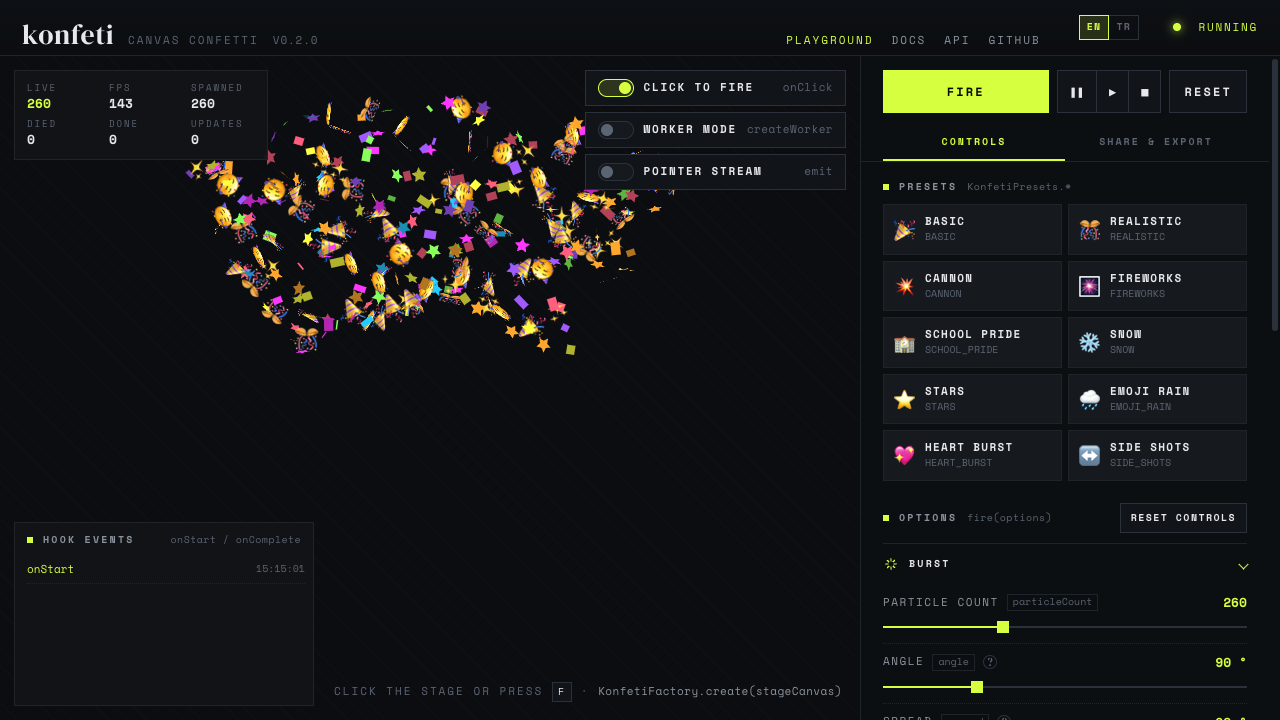
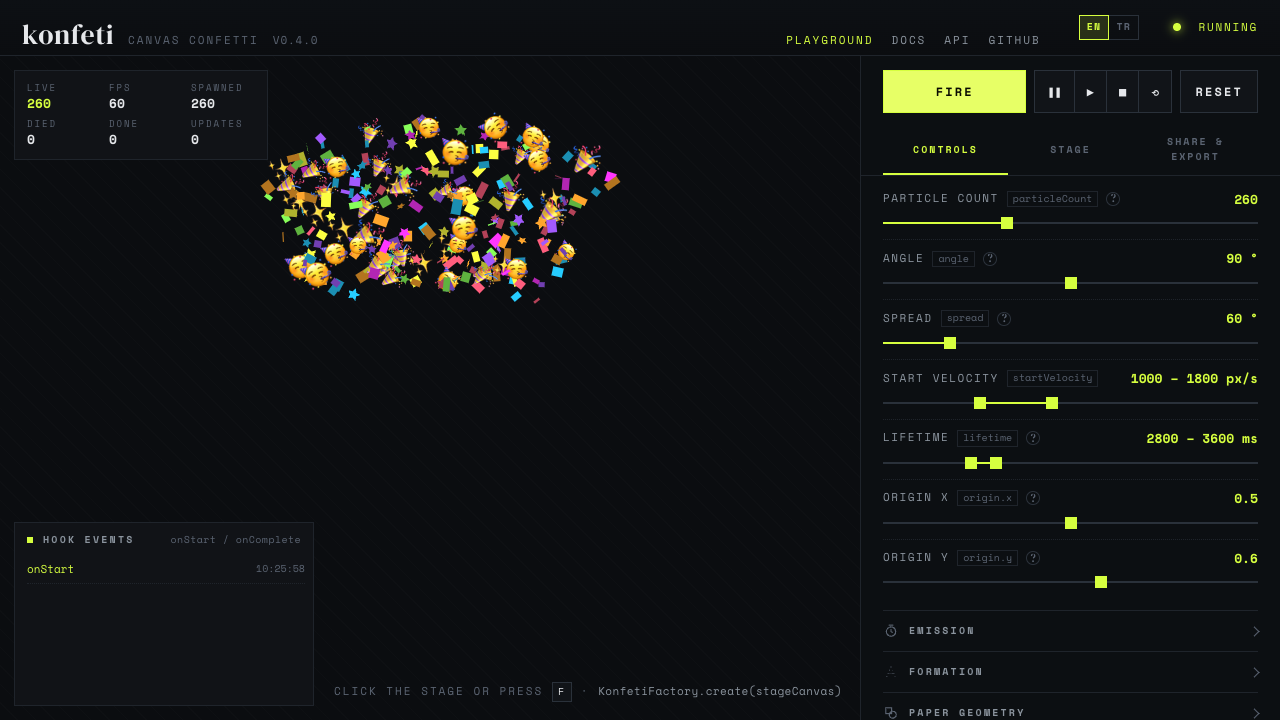
Fix the phone header; record the benchmarks in the plan
- Phone header (site): the wordmark kept shrinking and ran under the
  links, and the Turkish "DENEME ALANI" wrapped over it. The wordmark
  now keeps its width, the links stay on one line, spacing is tighter
  below 720 px, the status shows its dot only, and the narrowest phones
  (380 px and below) get a smaller wordmark. Measured on the built site:
  no overlap and no clipped link at 360, 375 and 390 px, EN and TR,
  playground and docs.
- docs/PLAN.md: M6 done; M7 benchmarks recorded (1k/5k/10k: paper, star
  and emoji hold 60 fps at 10k, shadows are the one real cost); SoA pool
  not needed; SSR-safe import checked; current bundle sizes.
- README screenshot: the 0.4.0 playground with the new editor.

diff --git a/playground/src/brand.css b/playground/src/brand.css
@@ -352,6 +352,7 @@ kbd {
 
 @media (max-width: 720px) {
   .app-header {
+    gap: 10px;
     padding: 10px 12px;
   }
 
@@ -364,14 +365,29 @@ kbd {
     display: none;
   }
 
+  /* the wordmark keeps its width (it used to shrink and run under the links) */
+  .app-brand {
+    flex-shrink: 0;
+  }
+
+  /* one line of links; on the narrowest phones they scroll sideways instead of overlapping */
   .app-nav {
-    gap: 10px;
-    margin-right: 10px;
+    gap: 8px;
+    min-width: 0;
+    margin-right: 0;
+    overflow-x: auto;
+    scrollbar-width: none;
   }
 
   .app-nav a {
     font-size: 10px;
-    letter-spacing: 0.1em;
+    letter-spacing: 0.04em;
+    white-space: nowrap;
+  }
+
+  /* the colored dot alone tells the state */
+  .app-status > :not(.dot) {
+    display: none;
   }
 
   .app-nav .app-nav-extra {
@@ -379,10 +395,25 @@ kbd {
   }
 
   .lang-switch {
-    margin-right: 8px;
+    margin-right: 0;
   }
 
   .lang-option {
     padding: 3px 5px;
+  }
+}
+
+/* the narrowest phones (360 px wide): a smaller wordmark keeps every link visible */
+@media (max-width: 380px) {
+  .app-brand h1 {
+    font-size: 19px;
+  }
+
+  .app-nav {
+    gap: 6px;
+  }
+
+  .lang-option {
+    padding: 3px 4px;
   }
 }

diff --git a/docs/PLAN.md b/docs/PLAN.md
@@ -132,8 +132,10 @@ Notes
 ### 3.8 Advanced (post-MVP)
 
 - `OffscreenCanvas` + Web Worker renderer (`createWorker()` from `konfeti/worker`, shipped in 0.2.0)
-- SSR-safe import (no `window` access at import time)
-- Playground: live option editor + "copy config" button
+- ✅ SSR-safe import (no `window` access at import time): the built CJS and ESM entries, `konfeti/worker` included,
+  import in Node without a DOM (checked 2026-10-05)
+- ✅ Playground: live option editor + "copy config" button (editor v2: Basic/Advanced, min–max ranges, per-shape
+  styles, burst tabs, lossless preset loading)
 
 ---
 
@@ -225,15 +227,35 @@ fire(options)
 | M3 ✅ | Physics + visual  | composable physics, flip/wobble/tilt, opacity/scale curves, colour utilities                                                                                                     |
 | M4 ✅ | Presets + helpers | `KonfetiPresets` + `extendPreset`, `fromElement`, `onClick`, emission modes (stream/interval), hooks                                                                             |
 | M5 ✅ | Advanced          | ✅ `defineShape` / `definePhysics` (typed registries) · ✅ tree-shakeable shape handlers + `konfeti/lite` · ✅ Worker/OffscreenCanvas (`konfeti/worker` → `createWorker`, 0.2.0) |
-| M6    | Docs & playground | playground with live option editor, TypeDoc site, README examples · ✅ package README                                                                                            |
-| M7    | 1.0               | API freeze, benchmarks (1k/5k/10k particles), visual regression tests, release                                                                                                   |
+| M6 ✅ | Docs & playground | playground with live option editor (v2, 0.4.0), TypeDoc site, README examples, package README                                                                                    |
+| M7    | 1.0               | API freeze, ✅ benchmarks (1k/5k/10k particles, §6.1), visual regression tests, release                                                                                          |
+
+### 6.1 Benchmarks (2026-10-05)
+
+Built dist in Chrome, 1280×800 at DPR 2, particles spread over the canvas and kept alive. "Engine JS" is one
+`update` + `draw` stepped by hand (no readbacks); "fps" is the real frame rate under the normal 60 Hz cap.
+
+| Variant        | 1k             | 5k             | 10k             |
+| -------------- | -------------- | -------------- | --------------- |
+| paper          | 0.3 ms, 60 fps | 1.4 ms, 60 fps | 3.6 ms, 60 fps  |
+| star           | 0.3 ms, 60 fps | 1.5 ms, 60 fps | 3.0 ms, 60 fps  |
+| emoji          | 0.5 ms, 60 fps | 2.9 ms, 60 fps | 11.4 ms, 60 fps |
+| paper + trail  | 1.3 ms, 60 fps | 6.7 ms, 60 fps | 16.4 ms, 55 fps |
+| paper + shadow | 0.3 ms, 4 fps  | 1.5 ms, 2 fps  | 3.6 ms, 1 fps   |
+
+- The object pool is not a bottleneck: the SoA typed-array pool is not needed.
+- Canvas `shadowBlur` is the one real cost (the canvas blurs every shadowed particle on every frame). Trails are
+  drawn without the shadow since 0.4.1 (a shadowed sparkler with trails went from 1 to 31 fps).
+- Pitfall when measuring: reading pixels back every frame (`getImageData`) makes Chrome move the canvas to the CPU;
+  drawing GPU-held glyph bitmaps into it then costs seconds per frame. Measure without per-frame readbacks.
 
 ---
 
 ## 7. Open Questions
 
-- **Bundle size** (measured 2026-09-28, min+brotli): `konfeti` fire 13.77 kB, everything 15.24 kB, `konfeti/lite` fire 10.9 kB. The original 6 kB goal was dropped; the core engine alone is ~10.4 kB. Further candidates: canvas-only color parsing (~0.8 kB), lazy physics modules (~0.5 kB).
-- Canvas `shadow` and `shine` costs should be benchmarked with 1500 particles.
+- **Bundle size** (measured 2026-10-05, min+brotli): `konfeti` fire 19.33 kB, everything 23.1 kB, `konfeti/lite` fire 13.91 kB (0.4.0 added formations, replays, adaptive quality and 11 presets). The original 6 kB goal was dropped. Further candidates: canvas-only color parsing (~0.8 kB), lazy physics modules (~0.5 kB).
+- Canvas `shadow` is benchmarked (§6.1): unusable beyond a few hundred particles. Open: draw shadows from a cached
+  blurred sprite instead of `shadowBlur`, or keep them as an effect for small counts (documented on `ShadowOptions`).
 
 - Default palette: canvas-confetti's classic 7 colours, or our own signature palette? (decide while tuning in M1)
-- SoA typed-array pool: only if M7 benchmarks show the object pool as a bottleneck at 5k–10k particles.
+- ~~SoA typed-array pool~~: not needed, the M7 benchmarks show no pool bottleneck at 10k particles (§6.1).
